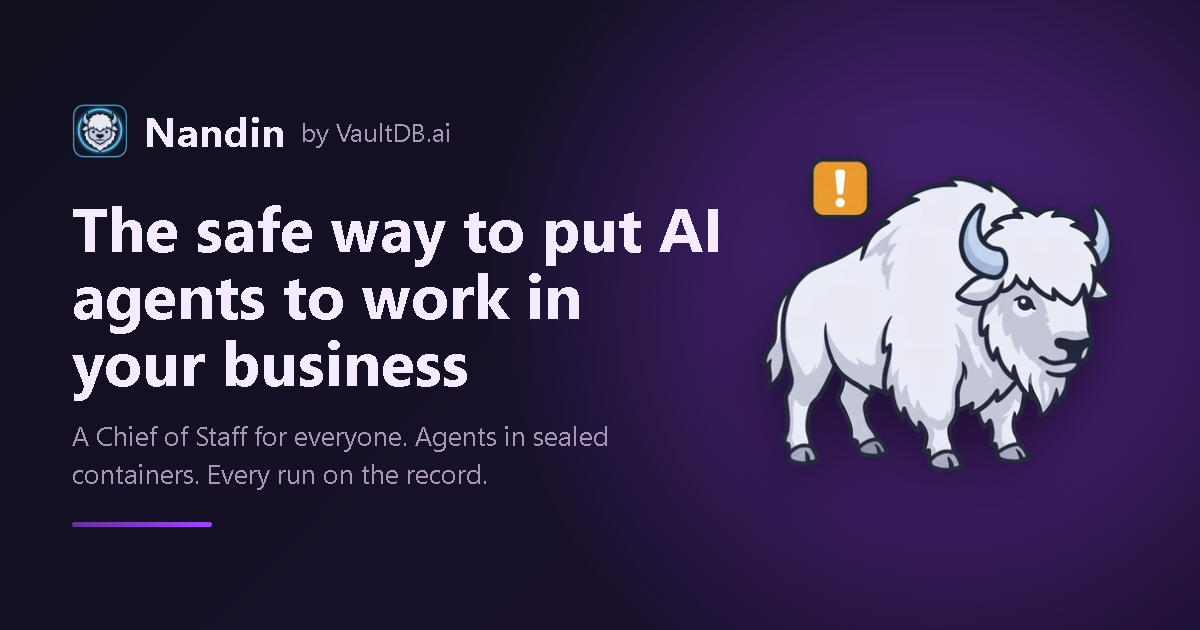
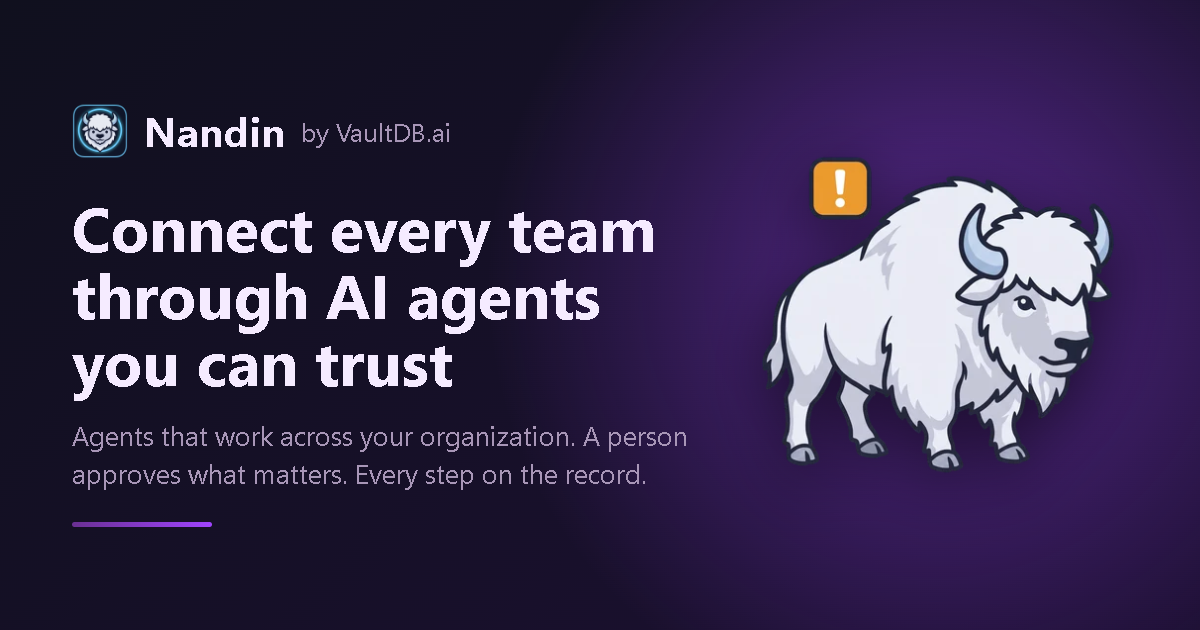
feat(nandin): headline "Connect every team through AI agents you can trust"
The lede says agents work across the organization: they share what they can do, ask each other for help, and wait for a person on anything that matters. Title, social card and products card match.

Changed region(s): [[0.0617, 0.3317, 0.6167, 0.6333], [0.0617, 0.6635, 0.555, 0.7841]]

diff --git a/index.html b/index.html
@@ -4,11 +4,11 @@
 <head>
   <meta charset="UTF-8" />
   <meta name="viewport" content="width=device-width, initial-scale=1.0" />
-  <title>Nandin: the safe way to put AI agents to work in your business | VaultDB.ai</title>
+  <title>Nandin: connect every team through AI agents you can trust | VaultDB.ai</title>
   <meta name="description"
     content="Nandin gives everyone on your team a Chief of Staff and AI agents that run in sealed containers on your own machines. Anything risky waits for approval, and every run is on the record: backed up, auditable, replayable. Free and open source." />
   <link rel="canonical" href="https://vaultdb.ai/" />
-  <meta property="og:title" content="Nandin: The safe way to put AI agents to work in your business" />
+  <meta property="og:title" content="Nandin: Connect every team through AI agents you can trust" />
   <meta property="og:description"
     content="A Chief of Staff for everyone, agents in sealed containers, approval before action, and a record your company keeps. Works on its own; connects teammates through your own relay." />
   <meta property="og:type" content="website" />
@@ -16,7 +16,7 @@
   <meta property="og:image" content="https://www.vaultdb.ai/img/nandin-og.png" />
   <meta property="og:image:width" content="1200" />
   <meta property="og:image:height" content="630" />
-  <meta property="og:image:alt" content="Nandin by VaultDB.ai: the bison and the line The safe way to put AI agents to work in your business" />
+  <meta property="og:image:alt" content="Nandin by VaultDB.ai: the bison and the line Connect every team through AI agents you can trust" />
   <meta property="og:url" content="https://vaultdb.ai/" />
   <meta property="og:site_name" content="VaultDB.ai" />
   <meta name="twitter:card" content="summary_large_image" />
@@ -193,12 +193,11 @@
               <img src="img/nandin-app-icon-64.png" alt="" class="nest_eyebrow_icon" width="28" height="28" />
               Nandin by VaultDB.ai
             </p>
-            <h1 id="nest-title">The safe way to put AI agents to work in your business</h1>
-            <p class="nest_lede nest_lede_strong">Nandin turns how your team really works into agents that automate the legwork, with a person approving anything that matters.</p>
+            <h1 id="nest-title">Connect every team through AI agents you can trust</h1>
+            <p class="nest_lede nest_lede_strong">Nandin turns how each team really works into agents that work across your organization: they share what they can do, ask each other for help, and wait for a person on anything that matters.</p>
             <p class="nest_lede">
-              Everyone gets a Chief of Staff that learns their job. Agents run in sealed containers on your own
-              machines, every run is on the record, and your company keeps what it learns: a business where
-              people and AI work as one team.
+              Every step is on the record and stays with your company, so you build a business where people
+              and AI work as one team.
             </p>
             <div class="nest_actions justify-content-center">
               <a href="https://github.com/vaultdbai/nandin/releases/latest" class="contact_btn" id="hero-download">

diff --git a/products.html b/products.html
@@ -198,7 +198,7 @@
                 <span class="nest_badge products_badge">New</span>
                 <h2 class="h4 text-white">Nandin</h2>
                 <p class="text-gray">
-                  The safe way to put AI agents to work in your business. Everyone gets a Chief of Staff that learns their
+                  Connect every team through AI agents you can trust. Everyone gets a Chief of Staff that learns their
                   job, agents run in sealed containers on your own machines, anything risky waits for approval, and
                   every run is on the record. Free and open source.
                 </p>

diff --git a/system-context.md b/system-context.md
@@ -27,7 +27,7 @@ This is **NOT** a framework-based application. There is no React, Next.js, Vite,
 
 ```
 vaultdb-web/
-├── index.html              — Home page: Nandin (the safe way to put AI agents to work in your business)
+├── index.html              — Home page: Nandin (connect every team through AI agents you can trust)
 ├── database.html           — VaultDB Database (in-process database + VaultDB HUB for IoT and modeling; the former homepage) and its docs links
 ├── products.html           — All products (Nandin, VaultDB Database) and the Agent Hub
 ├── agents.html             — Agent Hub: every registry agent and pack for Nandin, plus the publish guide
